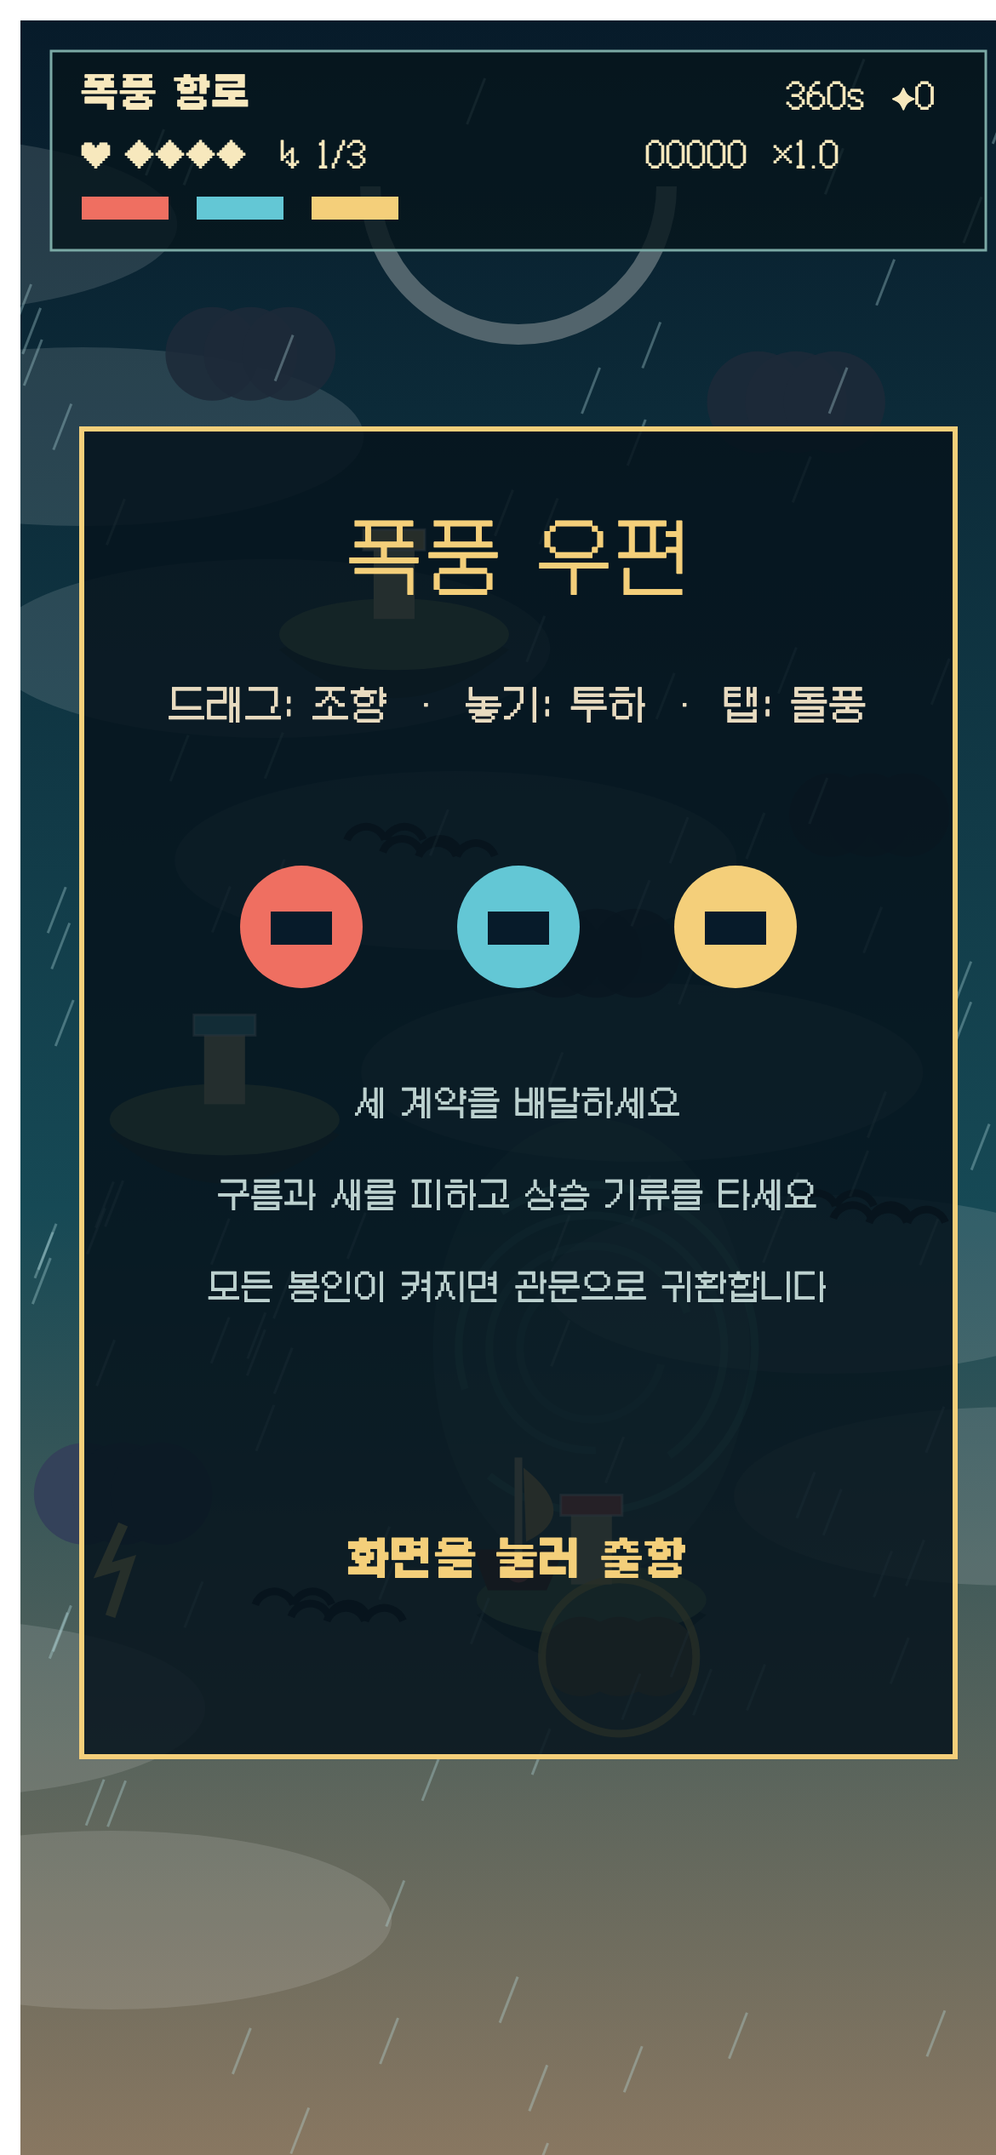
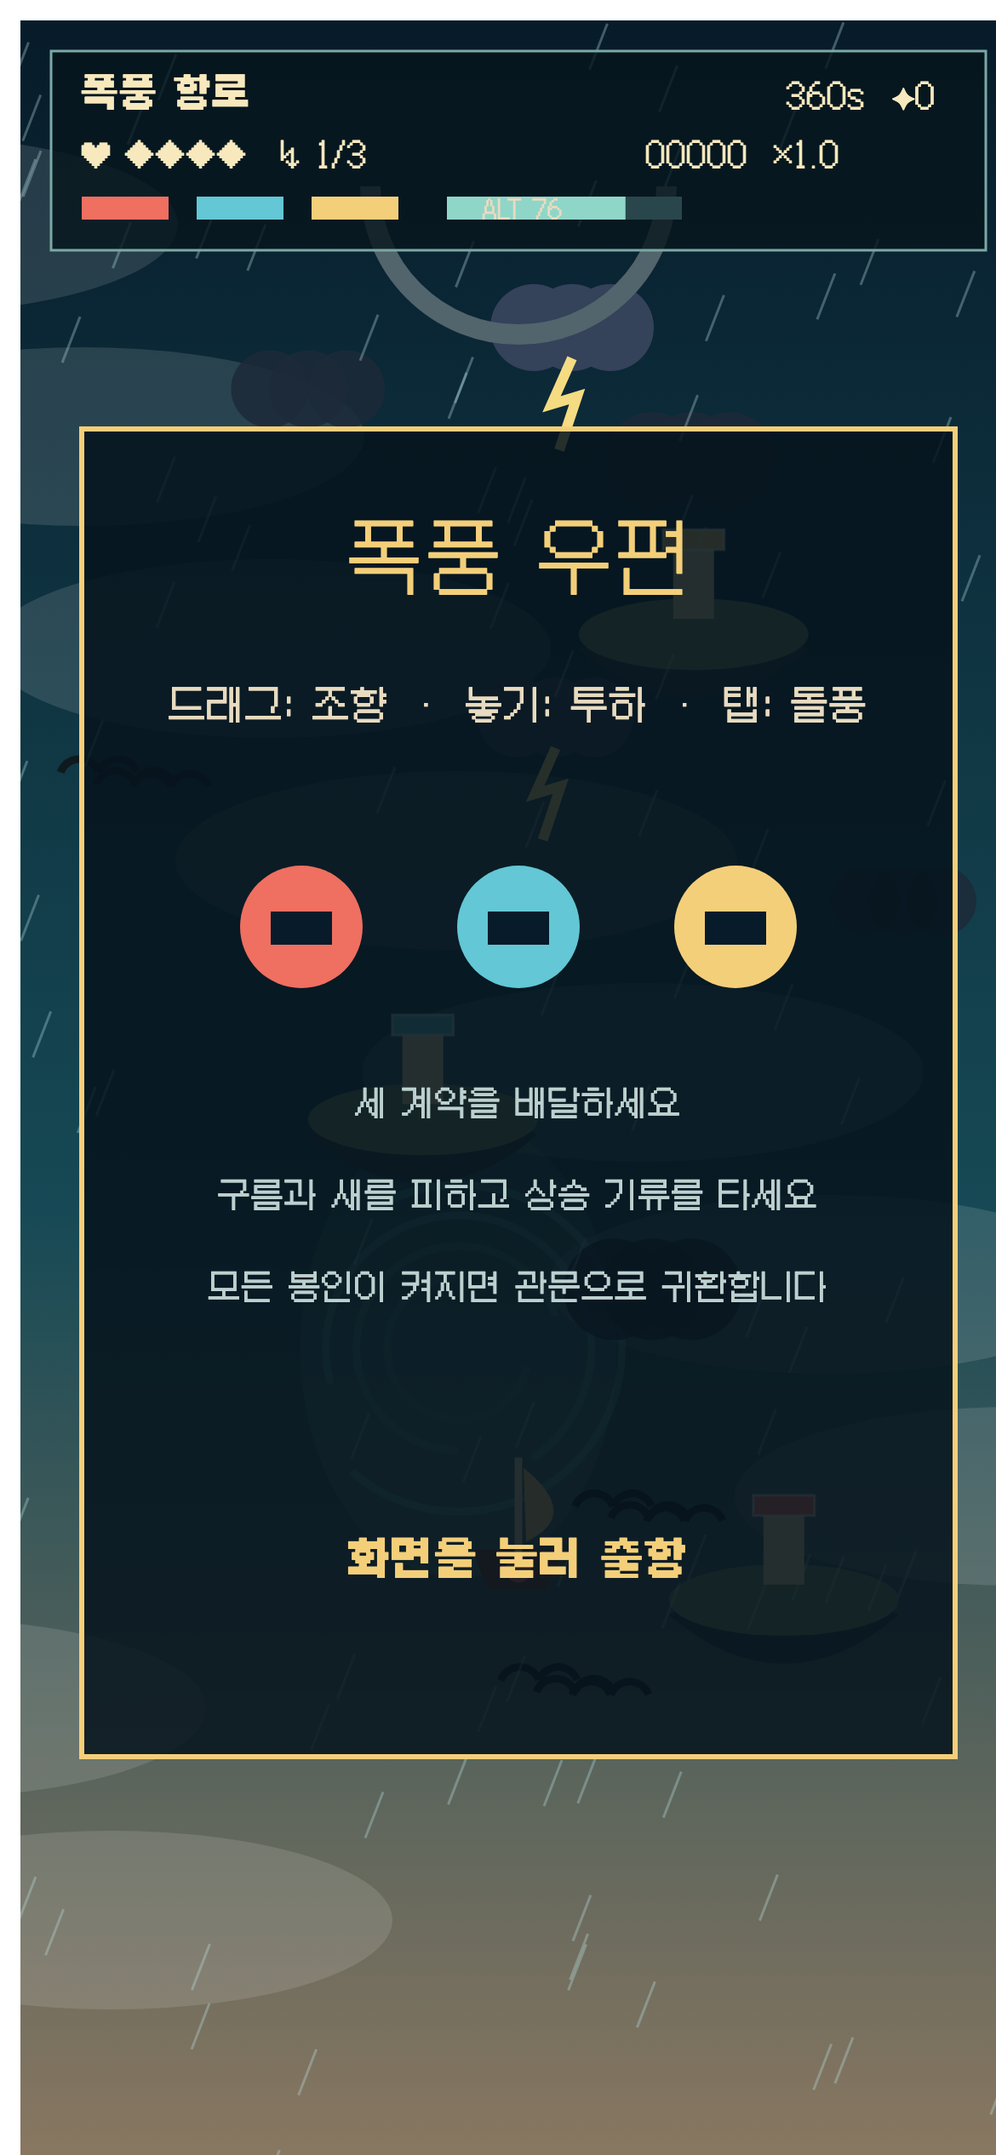
Finish Stormpost route conformance

diff --git a/src/game/StormpostGame.ts b/src/game/StormpostGame.ts
@@ -2,7 +2,7 @@ import { APP_CONFIG } from '../appConfig'
 import { getLocale } from '../i18n'
 import { logicRandom } from './logicRng'
 import type { GameCallbacks, GameRuntime } from './types'
-import { canOpenGate, cosmeticTier, deliveryScore, finalScore, generateRoute, grade, lightningPhase, stampReward, wetFirstPending, type Letter, type Seal } from './stormpostRules'
+import { altitudeAfter, canOpenGate, cosmeticTier, deliveryScore, finalScore, generateRoute, grade, lightningPhase, placeOutsideCorridor, stampReward, wetFirstPending, type Letter, type Seal } from './stormpostRules'
 import { StormAudio } from './StormAudio'
 
 const W = APP_CONFIG.designWidth
@@ -55,6 +55,9 @@ export class StormpostGame implements GameRuntime {
     private routeOffset=0
     private stamps=0
     private cosmetic=0
+    private altitude=76
+    private corridor={x:W/2,halfWidth:38}
+    private altitudeDamageReady=true
 
     async mount(container: HTMLElement, callbacks: GameCallbacks): Promise<void> {
         this.cb = callbacks
@@ -62,6 +65,7 @@ export class StormpostGame implements GameRuntime {
         const route=generateRoute(logicRandom)
         this.islands=route.islands.map((x,i)=>({...x,pulse:i*2}))
         this.updraft=route.updraft
+        this.corridor=route.corridor
         try{this.stamps=Number(localStorage.getItem('stormpost:stamps')||0)||0}catch{this.stamps=0}
         this.cosmetic=cosmeticTier(this.stamps)
         this.canvas = document.createElement('canvas')
@@ -79,7 +83,7 @@ export class StormpostGame implements GameRuntime {
             this.canvas.style.width = `${W * scale}px`; this.canvas.style.height = `${H * scale}px`
         }
         fit(); this.resizeObs = new ResizeObserver(fit); this.resizeObs.observe(container)
-        for (let i = 0; i < 9; i++) this.hazards.push({ x: 35 + logicRandom() * 320, y: 120 + logicRandom() * 580, vx: (logicRandom() - .5) * 25, vy:18+logicRandom()*18, age:logicRandom()*4, kind: i % 3 ? 'cloud' : 'birds', r: 19 + logicRandom() * 12 })
+        for (let i = 0; i < 9; i++) {const rawX=35+logicRandom()*320;this.hazards.push({ x: placeOutsideCorridor(rawX,this.corridor.x,this.corridor.halfWidth), y: 120 + logicRandom() * 580, vx: (logicRandom() - .5) * 25, vy:18+logicRandom()*18, age:logicRandom()*4, kind: i % 3 ? 'cloud' : 'birds', r: 19 + logicRandom() * 12 })}
         for (let i = 0; i < 100; i++) this.rain.push({ x: logicRandom() * W, y: logicRandom() * H, s: 250 + logicRandom() * 300 })
         this.bind()
         ;(globalThis as any).__forceGameOver = () => this.finish(canOpenGate(this.letters))
@@ -146,10 +150,14 @@ export class StormpostGame implements GameRuntime {
         this.ship.angle = this.ship.vx * .006
         this.audio.update((this.ship.x/W-.5)*2,Math.hypot(this.ship.vx,this.ship.vy))
         const inLift = Math.hypot(this.ship.x-this.updraft.x, this.ship.y-this.updraft.y) < 72
+        this.altitude=altitudeAfter(this.altitude,dt,inLift)
+        if(this.altitude<=0&&this.altitudeDamageReady){this.altitudeDamageReady=false;this.hit(this.ship.x);this.altitude=28;this.say(this.locale==='ko'?'고도 상실 · 선체 충격':'ALTITUDE LOST · HULL IMPACT')}
+        if(this.altitude>35)this.altitudeDamageReady=true
         if (inLift) { this.charge += dt; if (this.charge > 2.5 && this.gust < 3) { this.gust++; this.charge = 0; this.audio.tone('sail',(this.ship.x/W-.5)*2) } }
         for (const h of this.hazards) {
             h.age+=dt;h.x += h.vx*dt;h.y+=h.vy*dt;if(h.y>H+35)h.y=95
             if (h.x < -30) h.x=W+30; if (h.x>W+30) h.x=-30
+            if(Math.abs(h.x-this.corridor.x)<this.corridor.halfWidth){h.x=placeOutsideCorridor(h.x,this.corridor.x,this.corridor.halfWidth);h.vx*=-1}
             const dangerous=h.kind==='birds'||lightningPhase(h.age)==='active'
             if (dangerous&&this.ship.inv <= 0 && Math.hypot(this.ship.x-h.x,this.ship.y-h.y)<h.r+17) this.hit(h.x)
         }
@@ -196,7 +204,7 @@ export class StormpostGame implements GameRuntime {
         this.cb.onGameOver({score:total,phase:this.letters.filter(l=>l.delivered).length})
     }
     private restart() {
-        this.over=false;this.started=true;this.audio.setPaused(false);this.elapsed=0;this.score=0;this.combo=0;this.gust=1;this.charge=0
+        this.over=false;this.started=true;this.audio.setPaused(false);this.elapsed=0;this.score=0;this.combo=0;this.gust=1;this.charge=0;this.altitude=76;this.altitudeDamageReady=true
         this.ship={x:W/2,y:H*.7,vx:0,vy:0,angle:0,hull:4,inv:0}
         this.letters=[
             {seal:'coral',wet:false,delivered:false},
@@ -223,11 +231,11 @@ export class StormpostGame implements GameRuntime {
     private drawHazard(c:CanvasRenderingContext2D,h:Hazard,t:number){c.save();c.translate(h.x,h.y);if(h.kind==='birds'){c.strokeStyle='#10191e';c.lineWidth=3;for(let i=-1;i<=1;i++){c.beginPath();c.arc(i*14,Math.sin(t*4+i)*5,8,3.5,5.9);c.stroke();c.beginPath();c.arc(i*14+15,Math.sin(t*4+i)*5,8,3.5,5.9);c.stroke()}}else{const phase=lightningPhase(h.age);c.fillStyle=phase==='warning'?'#7a6844':phase==='active'?'#34425a':'#1d2a38dd';for(let i=-1;i<2;i++){c.beginPath();c.arc(i*15,0,h.r*.7,0,7);c.fill()}if(phase==='warning'){c.strokeStyle=`rgba(255,220,100,${.45+.45*Math.sin(t*14)})`;c.lineWidth=3;c.beginPath();c.arc(0,0,h.r+8,0,7);c.stroke()}if(phase==='active'){c.strokeStyle='#f5dc82';c.lineWidth=4;c.beginPath();c.moveTo(0,12);c.lineTo(-8,30);c.lineTo(2,27);c.lineTo(-5,48);c.stroke()}}c.restore()}
     private drawGate(c:CanvasRenderingContext2D,t:number){const open=canOpenGate(this.letters);c.save();c.translate(W/2,65);c.strokeStyle=open?'#f4cf7a':'#52646c';c.lineWidth=8;c.beginPath();c.arc(0,0,58,0,Math.PI);c.stroke();if(open){c.strokeStyle=`rgba(244,207,122,${.4+.3*Math.sin(t*4)})`;c.lineWidth=18;c.stroke()}c.restore()}
     private drawShip(c:CanvasRenderingContext2D,t:number){const s=this.ship;c.save();c.translate(s.x,s.y);c.rotate(s.angle);c.globalAlpha=s.inv&&Math.sin(t*24)>0?.35:1;c.fillStyle=this.cosmetic>=1?'#8b5936':'#6c412c';c.beginPath();c.moveTo(-18,8);c.lineTo(18,8);c.lineTo(11,24);c.lineTo(-12,24);c.closePath();c.fill();c.strokeStyle='#ead8ac';c.lineWidth=3;c.beginPath();c.moveTo(0,10);c.lineTo(0,-28);c.stroke();c.fillStyle=this.cosmetic>=2?'#8fd6c8':'#f1c77c';c.beginPath();c.moveTo(2,-24);c.quadraticCurveTo(25,-8+Math.sin(t*5)*3,3,5);c.closePath();c.fill();if(this.cosmetic>=3){c.strokeStyle='#f4cf7a';c.beginPath();c.arc(0,12,27,0,7);c.stroke()}c.fillStyle='#ef6f61';c.beginPath();c.arc(0,16,5,0,7);c.fill();c.restore()}
-    private drawHud(c:CanvasRenderingContext2D){c.fillStyle='#06151ccc';c.fillRect(12,12,W-24,78);c.strokeStyle='#7ba9a5';c.strokeRect(12,12,W-24,78);c.fillStyle='#f7e8bd';c.font='bold 15px Galmuri11';c.fillText(tr[this.locale].route,24,35);c.font='12px Galmuri11';c.fillText(`${Math.max(0,Math.ceil(RUN_SECONDS-this.elapsed))}s  ✦${this.stamps}`,300,35);c.fillText(`♥ ${'◆'.repeat(this.ship.hull)}  ↯ ${this.gust}/3`,24,58);c.fillText(`${this.score.toString().padStart(5,'0')}  ×${(1+this.combo*.5).toFixed(1)}`,245,58);this.letters.forEach((l,n)=>{c.fillStyle=l.delivered?'#76937b':colors[l.seal];c.fillRect(24+n*45,69,34,9);if(l.wet&&!l.delivered){c.fillStyle='#7fa9be';c.fillRect(26+n*45,71,30,5)}});if(this.messageTime>0){c.fillStyle='#071b2add';c.fillRect(45,108,300,36);c.fillStyle='#fff3cd';c.textAlign='center';c.fillText(this.message,W/2,132);c.textAlign='left'}}
+    private drawHud(c:CanvasRenderingContext2D){c.fillStyle='#06151ccc';c.fillRect(12,12,W-24,78);c.strokeStyle='#7ba9a5';c.strokeRect(12,12,W-24,78);c.fillStyle='#f7e8bd';c.font='bold 15px Galmuri11';c.fillText(tr[this.locale].route,24,35);c.font='12px Galmuri11';c.fillText(`${Math.max(0,Math.ceil(RUN_SECONDS-this.elapsed))}s  ✦${this.stamps}`,300,35);c.fillText(`♥ ${'◆'.repeat(this.ship.hull)}  ↯ ${this.gust}/3`,24,58);c.fillText(`${this.score.toString().padStart(5,'0')}  ×${(1+this.combo*.5).toFixed(1)}`,245,58);c.fillStyle='#29464c';c.fillRect(167,69,92,9);c.fillStyle=this.altitude<25?'#ef6f61':'#8fd6c8';c.fillRect(167,69,92*this.altitude/100,9);c.fillStyle='#e8dbc0';c.font='9px Galmuri11';c.fillText(`ALT ${Math.round(this.altitude)}`,181,78);this.letters.forEach((l,n)=>{c.fillStyle=l.delivered?'#76937b':colors[l.seal];c.fillRect(24+n*45,69,34,9);if(l.wet&&!l.delivered){c.fillStyle='#7fa9be';c.fillRect(26+n*45,71,30,5)}});if(this.messageTime>0){c.fillStyle='#071b2add';c.fillRect(45,108,300,36);c.fillStyle='#fff3cd';c.textAlign='center';c.fillText(this.message,W/2,132);c.textAlign='left'}}
     private drawIntro(c:CanvasRenderingContext2D){c.fillStyle='#06141ddd';c.fillRect(24,160,W-48,520);c.strokeStyle='#f4cf7a';c.lineWidth=2;c.strokeRect(24,160,W-48,520);c.textAlign='center';c.fillStyle='#f4cf7a';c.font='bold 31px Galmuri14';c.fillText(this.locale==='ko'?'폭풍 우편':'STORMPOST',W/2,225);c.font='15px Galmuri11';c.fillStyle='#e8dbc0';c.fillText(tr[this.locale].drag,W/2,275);this.letters.forEach((l,n)=>{c.fillStyle=colors[l.seal];c.beginPath();c.arc(110+n*85,355,24,0,7);c.fill();c.fillStyle='#071b2a';c.fillRect(98+n*85,349,24,13)});c.fillStyle='#bcd1cf';c.font='13px Galmuri11';const lines=this.locale==='ko'?['세 계약을 배달하세요','구름과 새를 피하고 상승 기류를 타세요','모든 봉인이 켜지면 관문으로 귀환합니다']:['DELIVER ALL THREE CONTRACTS','DODGE CLOUDS · RIDE THE UPDRAFT','LIGHT THE SEALS AND RETURN'];lines.forEach((x,i)=>c.fillText(x,W/2,430+i*36));c.fillStyle='#f4cf7a';c.font='bold 17px Galmuri11';c.fillText(tr[this.locale].tap,W/2,610);c.textAlign='left'}
     private overlay(c:CanvasRenderingContext2D,a:string,b:string){c.fillStyle='#06141de8';c.fillRect(0,0,W,H);c.textAlign='center';c.fillStyle='#f4cf7a';c.font='bold 26px Galmuri14';c.fillText(a,W/2,H/2);c.font='14px Galmuri11';c.fillText(b,W/2,H/2+44);c.textAlign='left'}
     private drawResult(c:CanvasRenderingContext2D){c.fillStyle='#06141df0';c.fillRect(35,220,320,390);c.strokeStyle='#f4cf7a';c.lineWidth=2;c.strokeRect(35,220,320,390);c.textAlign='center';c.fillStyle='#e8dbc0';c.font='bold 20px Galmuri11';c.fillText(this.result.grade==='D'?tr[this.locale].lost:tr[this.locale].return,W/2,275);c.fillStyle='#f4cf7a';c.font='bold 92px Galmuri14';c.fillText(this.result.grade,W/2,385);c.font='bold 25px Galmuri11';c.fillText(this.result.score.toString(),W/2,440);c.font='14px Galmuri11';c.fillStyle='#bcd1cf';c.fillText(`${this.letters.filter(l=>l.delivered).length}/3  ·  ♥ ${this.ship.hull}`,W/2,485);c.font='13px Galmuri11';c.fillText(this.locale==='ko'?'결과 화면으로 이동합니다':'OPENING RESULTS',W/2,560);c.textAlign='left'}
 
     destroy(){cancelAnimationFrame(this.raf);this.audio.destroy();this.resizeObs?.disconnect();this.canvas?.removeEventListener('pointerdown',this.down);this.canvas?.removeEventListener('pointermove',this.move);this.canvas?.removeEventListener('pointerup',this.up);window.removeEventListener('keydown',this.keyDown);window.removeEventListener('keyup',this.keyUp);document.removeEventListener('visibilitychange',this.visibility);delete (globalThis as any).__forceGameOver}
-    getDebugState(){return{over:this.over,score:this.score,timeLeft:Math.round((RUN_SECONDS-this.elapsed)*10)/10,started:this.started,delivered:this.letters.filter(l=>l.delivered).length,hull:this.ship.hull,gust:this.gust,paused:this.paused}}
+    getDebugState(){return{over:this.over,score:this.score,timeLeft:Math.round((RUN_SECONDS-this.elapsed)*10)/10,started:this.started,delivered:this.letters.filter(l=>l.delivered).length,hull:this.ship.hull,gust:this.gust,altitude:Math.round(this.altitude),paused:this.paused}}
 }

diff --git a/src/game/stormpostRules.test.ts b/src/game/stormpostRules.test.ts
@@ -1,5 +1,5 @@
 import { describe, expect, it } from 'vitest'
-import { canOpenGate, cosmeticTier, deliveryScore, finalScore, generateRoute, grade, lightningPhase, stampReward, wetFirstPending, type Letter } from './stormpostRules'
+import { altitudeAfter, canOpenGate, cosmeticTier, deliveryScore, finalScore, generateRoute, grade, lightningPhase, placeOutsideCorridor, stampReward, wetFirstPending, type Letter } from './stormpostRules'
 
 const letters = (): Letter[] => [
     { seal: 'coral', wet: false, delivered: false },
@@ -47,5 +47,22 @@ describe('Stormpost delivery contract', () => {
     it('awards persistent stamp quantities and cosmetic thresholds',()=>{
         expect(stampReward(3999)).toBe(3)
         expect([3,4,9,15].map(cosmeticTier)).toEqual([0,1,2,3])
+    })
+    it('drains altitude outside lift and restores it inside lift',()=>{
+        expect(altitudeAfter(60,10,false)).toBe(32)
+        expect(altitudeAfter(60,1,true)).toBe(82)
+        expect(altitudeAfter(98,1,true)).toBe(100)
+    })
+    it('guarantees a hazard-free corridor across many seeded layouts',()=>{
+        for(let seed=1;seed<=200;seed++){
+            let state=seed>>>0
+            const random=()=>((state=(state*1664525+1013904223)>>>0)/4294967296)
+            const route=generateRoute(random)
+            for(let n=0;n<30;n++){
+                const raw=35+random()*320
+                const placed=placeOutsideCorridor(raw,route.corridor.x,route.corridor.halfWidth)
+                expect(Math.abs(placed-route.corridor.x)).toBeGreaterThanOrEqual(route.corridor.halfWidth)
+            }
+        }
     })
 })

diff --git a/src/game/stormpostRules.ts b/src/game/stormpostRules.ts
@@ -3,6 +3,7 @@ export type Letter = { seal: Seal; wet: boolean; delivered: boolean }
 export type RouteLayout = {
     islands: { x:number; y:number; seal:Seal }[]
     updraft: { x:number; y:number }
+    corridor: { x:number; halfWidth:number }
 }
 
 export const DELIVERY_RADIUS = 42
@@ -48,7 +49,8 @@ export function generateRoute(random:()=>number):RouteLayout {
     // approach corridor while its horizontal position remains seed-driven.
     let x=80+random()*230
     for(const island of islands) if(Math.abs(x-island.x)<68)x+=x<195?68:-68
-    return {islands,updraft:{x:Math.max(72,Math.min(318,x)),y:520}}
+    const corridorX=Math.max(92,Math.min(298,x))
+    return {islands,updraft:{x:corridorX,y:520},corridor:{x:corridorX,halfWidth:38}}
 }
 
 export function stampReward(score:number){return Math.max(0,Math.floor(score/1000))}
@@ -58,4 +60,14 @@ export type LightningPhase='warning'|'active'|'cooldown'
 export function lightningPhase(age:number):LightningPhase {
     const cycle=((age%4)+4)%4
     return cycle<1?'warning':cycle<1.65?'active':'cooldown'
+}
+
+export function placeOutsideCorridor(x:number,corridorX:number,halfWidth:number){
+    if(Math.abs(x-corridorX)>=halfWidth)return x
+    return x<corridorX?Math.max(25,corridorX-halfWidth):Math.min(365,corridorX+halfWidth)
+}
+
+export function altitudeAfter(altitude:number,dt:number,inLift:boolean){
+    const rate=inLift?22:-2.8
+    return Math.max(0,Math.min(100,altitude+rate*dt))
 }

diff --git a/DAY.md b/DAY.md
@@ -19,20 +19,20 @@
 
 - `npm test`
   - 배달 반경, 정밀·건조·콤보 점수, 충돌 시 미배달 편지 침수 순서, 세 계약 완료 전 관문 잠금, 귀환 보너스와 등급 경계를 확인했다.
-  - 결과: 테스트 파일 4개, 테스트 28개 통과. 시드 항로, 번개 상태, 우표 보상·외형 단계 테스트를 포함한다.
+  - 결과: 테스트 파일 4개, 테스트 30개 통과. 고도 감소·상승 기류 회복과 200개 시드×30개 위험의 안전 통로 불변조건을 추가했다.
 - `npm run build`
   - TypeScript 검사와 프로덕션 웹 번들을 확인했다.
-  - 결과: 성공. 메인 JS 237.83 kB(77.99 kB gzip). Capacitor 동적/정적 import 경고 1건, 빌드 오류 없음.
+  - 결과: 성공. 메인 JS 238.93 kB(78.37 kB gzip). Capacitor 동적/정적 import 경고 1건, 빌드 오류 없음.
 - `npm run build:arcade`
   - 불변 릴리스 파일 생성과 필수 파일 해시 검증을 확인했다.
-  - 결과: 성공. 5개 파일, 1,617,121 bytes, JS gzip 92,423 bytes. `verify-release` 통과.
+  - 결과: 성공. 5개 파일, 1,618,433 bytes, JS gzip 92,826 bytes. `verify-release` 통과.
 - `npm run csp`
   - 아케이드 샌드박스 CSP, 외부 스타일, 캔버스 배치와 필수 자산을 확인했다.
   - 결과: 통과. CSP 위반·오류·누락 자산 0.
 - `npm run smoke -- 17 90000`
   - 실제 포인터 반응, 한 판 종료, 셸 결과 전달, 결과 화면 탭 재시작, 페이지·콘솔 오류를 확인했다.
   - 결과: deployment-only 모드 성공. `mounted=true`, 콘솔·페이지 오류 0.
[2 lines of base64/hex data omitted]
 - `npm run viewport`
   - 360×800, 390×844, 430×932 및 900×760에서 standalone/portal 레터박스, DPR 백킹 스토어, 페이지 넘침을 확인했다.
   - 한국어·영어 결과 화면은 가장 작은 360×800 standalone/portal에서 강제 종료 후 경계를 확인했다.
@@ -42,6 +42,7 @@
   - Sonatype 검사는 연결 인증 토큰 부재로 수행하지 못했다. npm 감사 결과는 48건(낮음 15, 보통 5, 높음 24, 치명적 4)이며 템플릿 의존성 트리의 보안 검토가 남았다.
 - 합성 음향 자체 대조: 첫 입력 전에는 AudioContext를 만들지 않고, 첫 입력 뒤 바람 드론·좌우 패닝·돛 장력·돌풍·충돌·배달·관문 화음을 연결했다. M 음소거, P/백그라운드/결과 suspend, 재시작 resume, destroy close를 소스와 오류 없는 브라우저 실행으로 확인했다.
 - 체르파 누락 보완: 시드 기반 세 섬·상승 기류, 하향 위험과 구름층 전진, 경고 후 활성 번개, 종료 점수 우표와 4/9/15 외형을 구현·테스트했다.
+- 체르파 2차 보완: 관찰 가능한 ALT 상태와 고도 상실 선체 피해를 추가했다. 상승 기류는 고도와 돌풍을 함께 회복한다. 생성기는 폭 76px 안전 통로를 선언하고 위험이 이동 중에도 진입하지 못하게 반사한다.
 - 수동 미확인: 실제 모바일 기기의 햅틱 강도와 음량·공간감, 장시간 6분 밸런스, Toss 컨테이너.
 
 ## 결과

diff --git a/GDD.md b/GDD.md
@@ -10,7 +10,7 @@
 ## 코어 루프
 
 1. 출항 전 적·청·황 세 계약을 확인하고 출항한다.
-2. 화면을 누른 채 드래그해 기수를 조종한다. 상승 기류는 고도를 회복하고 돌풍을 충전한다.
+2. 화면을 누른 채 드래그해 기수를 조종한다. 고도는 초당 2.8 감소하고 상승 기류 안에서는 초당 22 회복하며 돌풍을 충전한다. HUD의 ALT 막대로 확인한다.
 3. 봉인과 같은 색의 섬 우편함 위에서 손을 떼면 편지를 투하한다.
 4. 180ms 이하의 짧은 탭은 저장한 돌풍 1칸을 써서 위험을 밀어내고 선체를 잠시 보호한다.
 5. 번개 구름·새 떼와 충돌하면 선체가 손상되고 편지가 젖는다. 젖은 편지는 배달 가치가 낮다.
@@ -29,6 +29,7 @@
 ## 상태와 진행
 
 - 선체: 4칸. 위험 충돌은 1칸 감소하며 1.2초 무적을 준다.
+- 고도: 0–100. 시작 76이며 0에 닿으면 선체 1칸을 잃고 28로 회복한다. 35를 넘긴 뒤에야 다음 고도 충격이 활성화된다.
 - 편지 상태: 각 편지는 `dry` 또는 `wet`. 충돌 시 아직 배달하지 않은 첫 편지가 젖는다.
 - 돌풍: 최대 3칸. 상승 기류에 머문 시간으로 충전하며 시작 시 1칸을 보유한다.
 - 긴급 특송: 황색 계약. 마지막에 배달하면 500점, 두 번째 이전에 배달하면 900점.
@@ -37,7 +38,7 @@
 ## 절차 항로
 
 - 시드에 따라 세 섬과 상승 기류의 좌우 위치, 구름·새 배치를 만든다. 구름층 스크롤이 전진 카메라 감각을 만든다.
-- 세 목적지는 항상 서로 다른 색이며 시작점에서 관문까지 진행 가능한 안전 통로가 남는다.
+- 세 목적지는 항상 서로 다른 색이다. 상승 기류 중심을 잇는 폭 76px 세로 안전 통로를 생성하고, 모든 위험의 초기 위치와 이동을 통로 밖으로 밀어 시작점에서 관문까지 진행 가능하게 보장한다.
 - 위험은 아래로 흐르고 화면 아래를 지난 뒤 상단으로 순환하며, 새 떼는 횡단한다. 번개 구름은 1초 경고 → 0.65초 활성 → 쿨다운을 순환하고 활성 구간에만 피해를 준다.
 
 ## 입력·접근성

diff --git a/ART.md b/ART.md
@@ -11,6 +11,7 @@
 - 후가공: 투명도 레이어, 선형 그라디언트, 화면 섬광, 사인파 부유 애니메이션을 런타임에서 합성한다.
 - 사용 위치: 타이틀, 항로, HUD, 계약·결과 화면 전체.
 - 절차 변형: 시드로 섬·상승 기류·위험 위치를 정하고, 누적 우표 4/9/15에서 선체 색·돛 색·금빛 돌풍 고리를 코드 도형으로 바꾼다.
+- 상태 표현: HUD의 청록 ALT 막대가 고도를 표시하며 25 미만에서 산호색 경고로 바뀐다.
 
 ## 게임 사운드
 
